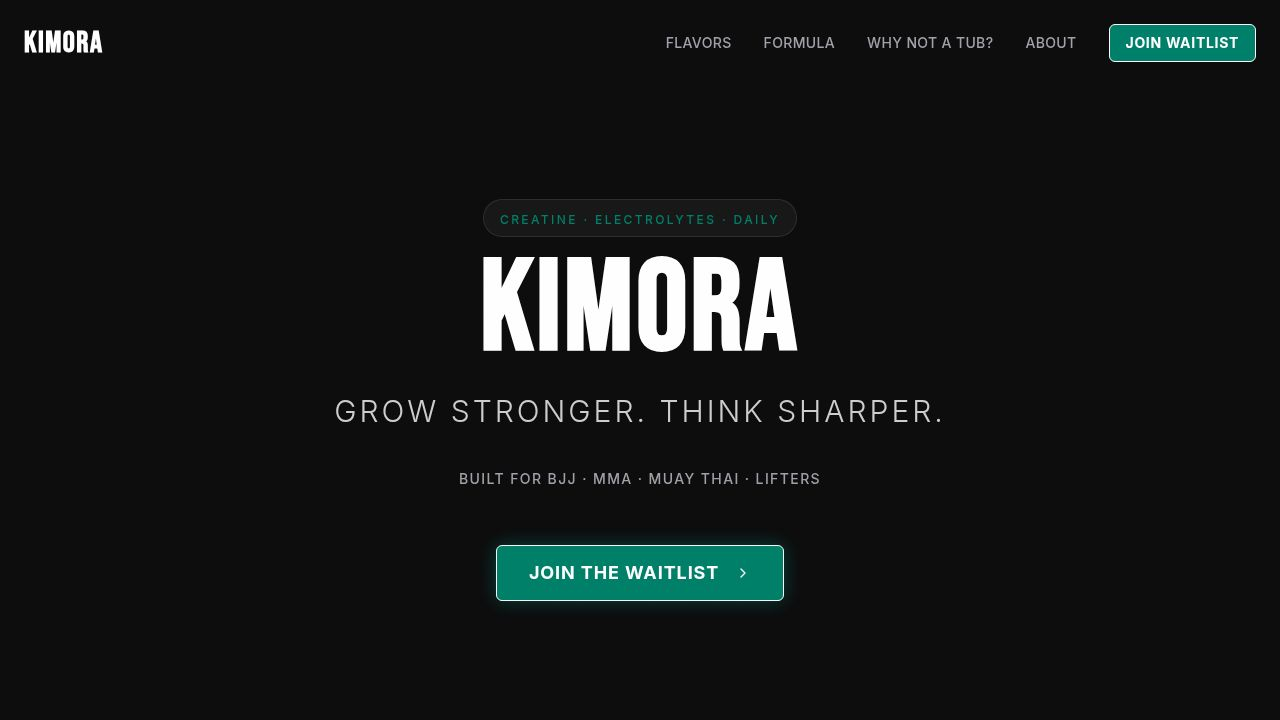
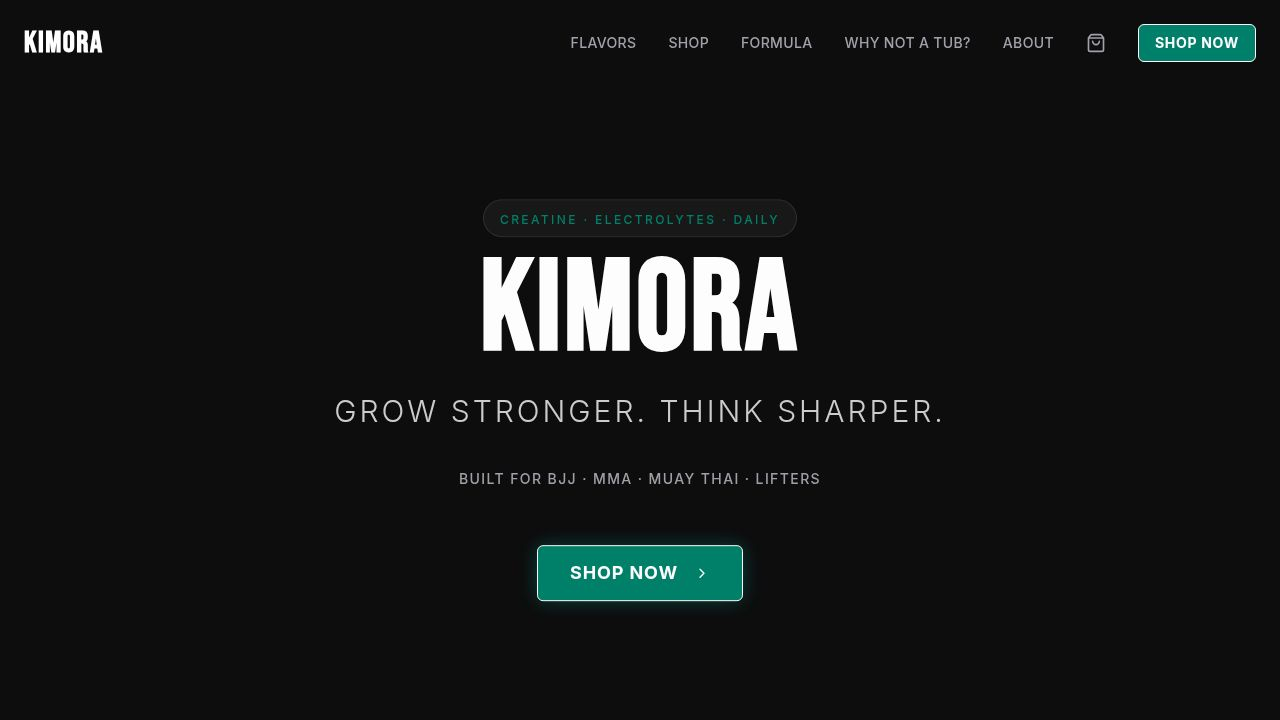
Transition from waitlist to shop mode by updating navigation and hero calls to action
Remove the waitlist section and update the "Join Waitlist" buttons to "Shop Now", redirecting users to the shop page.

Replit-Commit-Author: Agent
Replit-Commit-Session-Id: 05f74e78-31f0-4021-98d3-058166a5e465
Replit-Commit-Checkpoint-Type: full_checkpoint
Replit-Commit-Event-Id: d3a56d9b-7001-4bef-a185-cb3324de784c
Replit-Commit-Screenshot-Url: https://storage.googleapis.com/screenshot-production-us-central1/70527097-df66-4a15-a0b0-1fdf2f083b82/05f74e78-31f0-4021-98d3-058166a5e465/S0xAV9q
Replit-Helium-Checkpoint-Created: true

Changed region(s): [[0.375, 0.7333, 0.625, 0.8556], [0.5312, 0.0306, 0.9688, 0.0917], [0.4375, 0.0306, 0.5, 0.0611]]

diff --git a/client/src/components/sections/Hero.tsx b/client/src/components/sections/Hero.tsx
@@ -3,8 +3,8 @@ import { Button } from "@/components/ui/button";
 import { ChevronRight } from "lucide-react";
 
 export function Hero() {
-  const scrollToWaitlist = () => {
-    document.querySelector("#waitlist")?.scrollIntoView({ behavior: "smooth" });
+  const scrollToShop = () => {
+    window.location.href = "/shop";
   };
 
   return (
@@ -41,10 +41,10 @@ export function Hero() {
           <div className="pt-8">
             <Button 
               size="lg" 
-              onClick={scrollToWaitlist}
+              onClick={scrollToShop}
               className="h-14 px-8 bg-primary hover:bg-primary/90 text-white text-lg font-bold uppercase tracking-wider shadow-[0_0_20px_rgba(0,191,165,0.3)] hover:shadow-[0_0_30px_rgba(0,191,165,0.5)] transition-all duration-300"
             >
-              Join the Waitlist <ChevronRight className="ml-2 h-5 w-5" />
+              Shop Now <ChevronRight className="ml-2 h-5 w-5" />
             </Button>
           </div>
         </motion.div>

diff --git a/client/src/components/sections/Navbar.tsx b/client/src/components/sections/Navbar.tsx
@@ -88,10 +88,10 @@ export function Navbar() {
           </Link>
 
           <Button 
-            onClick={() => scrollToSection("#waitlist")}
+            onClick={() => window.location.href = "/shop"}
             className="bg-primary hover:bg-primary/90 text-white font-bold uppercase tracking-wider"
           >
-            Join Waitlist
+            Shop Now
           </Button>
         </div>
 
@@ -124,10 +124,10 @@ export function Navbar() {
                   </button>
                 ))}
                 <Button 
-                  onClick={() => scrollToSection("#waitlist")}
+                  onClick={() => window.location.href = "/shop"}
                   className="w-full bg-primary hover:bg-primary/90 text-white font-bold uppercase tracking-wider mt-4"
                 >
-                  Join Waitlist
+                  Shop Now
                 </Button>
               </div>
             </SheetContent>

diff --git a/client/src/pages/Home.tsx b/client/src/pages/Home.tsx
@@ -2,7 +2,6 @@ import { Navbar } from "@/components/sections/Navbar";
 import { Hero } from "@/components/sections/Hero";
 import { ProductLineup } from "@/components/sections/ProductLineup";
 import { Benefits } from "@/components/sections/Benefits";
-import { Waitlist } from "@/components/sections/Waitlist";
 import { Formula } from "@/components/sections/Formula";
 import { Comparison } from "@/components/sections/Comparison";
 import { About } from "@/components/sections/About";
@@ -17,7 +16,6 @@ export default function Home() {
         <Hero />
         <ProductLineup />
         <Benefits />
-        <Waitlist />
         <Formula />
         <Comparison />
         <About />
